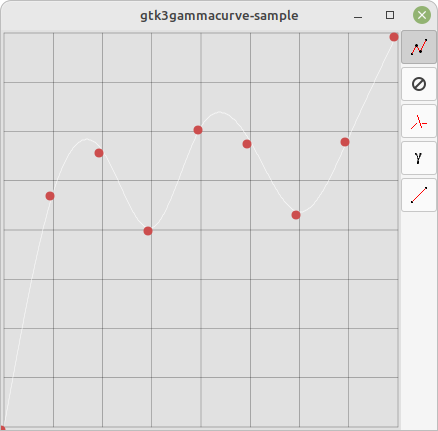
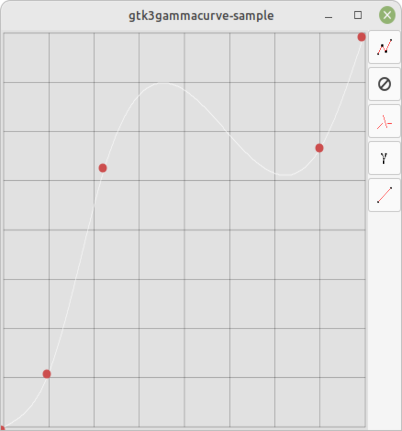
The sample is used for both examples, standardizing the capture (#2)

diff --git a/sample.c b/sample.c
@@ -16,11 +16,20 @@ int main (int argc, char *argv[])
   window = gtk_window_new (GTK_WINDOW_TOPLEVEL);
   g_signal_connect (window, "destroy", G_CALLBACK (gtk_main_quit), NULL);
 
-  gamma = gtk3_gamma_curve_new ();
-  da = GTK3_GAMMA_CURVE (gamma)->curve;
-  gtk_widget_set_name (gamma, "curve1");
+  if (strstr(argv[0], "gtk3curve-sample"))
+  {
+     da = gtk3_curve_new ();
+     gtk_widget_set_name (da, "curve1");
+     gamma = da;
+  }
+  else
+  {
+     gamma = gtk3_gamma_curve_new ();
+     da = GTK3_GAMMA_CURVE (gamma)->curve;
+     gtk_widget_set_name (gamma, "GammaCurve");
+     // gtk_widget_set_size_request (da, WINDOW_WIDTH - 18, WINDOW_HEIGHT - 18);
+  }
   gtk_widget_set_size_request (gamma, WINDOW_WIDTH, WINDOW_HEIGHT);
-  gtk_widget_set_size_request (da, WINDOW_WIDTH - 18, WINDOW_HEIGHT - 18);
 
   gtk3_curve_set_color_background_rgba (da, 0.8, 0.8, 0.8, 0.5);
   gtk3_curve_set_color_grid_rgba (da, 0.0, 0.0, 0.0, 0.5);
